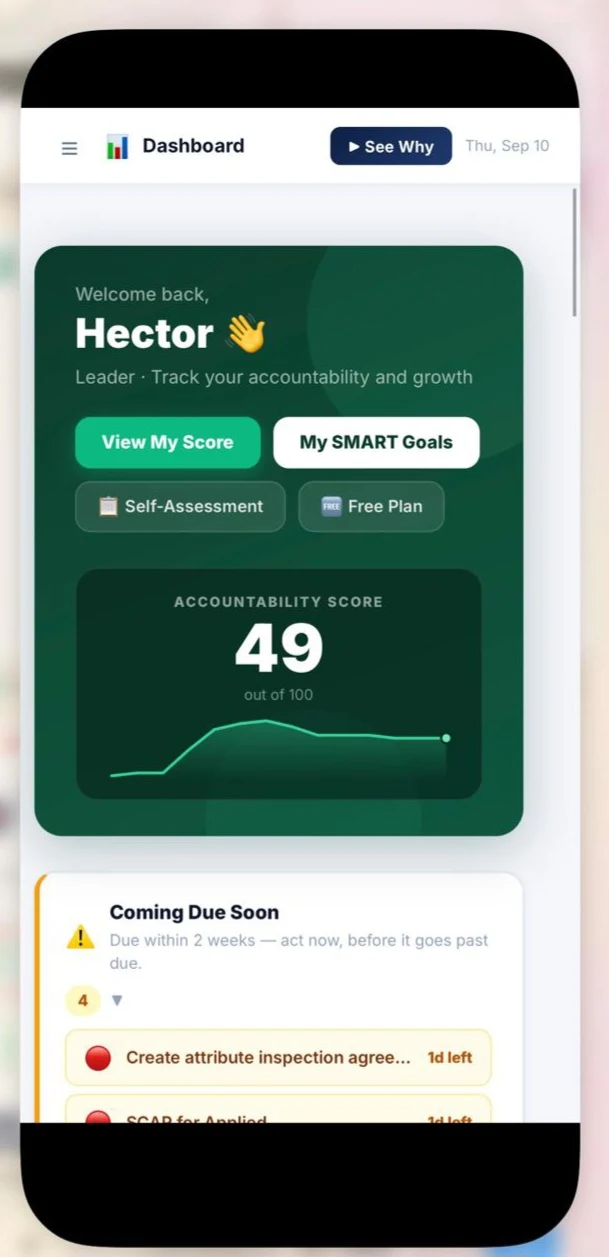
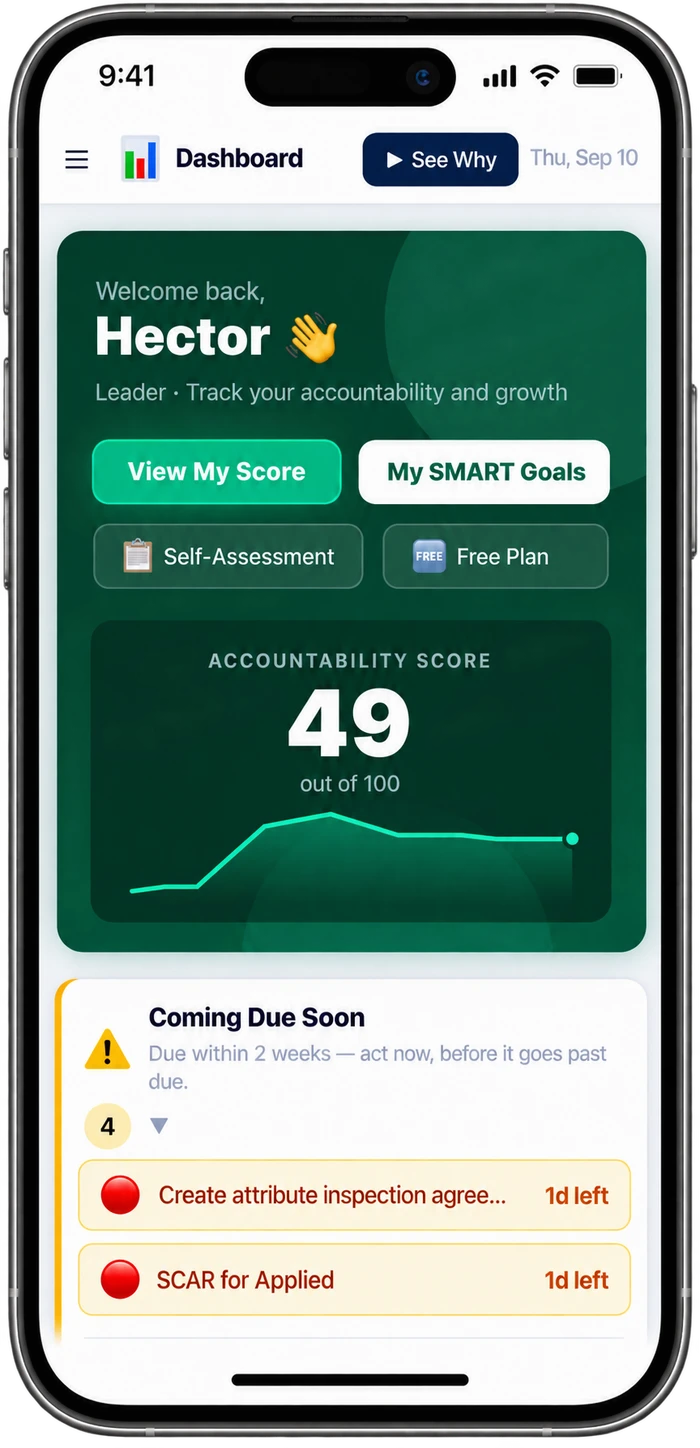
Upgrade to full realistic phone-frame screenshots
The dashboard and Vision Builder screenshots are replaced with
properly phone-framed captures (complete iPhone silhouette, status
bar, side buttons) instead of the earlier cropped mockup exports.
These have a clean transparent background, so the zoom/crop hack
from the last commit is removed in favor of object-contain.

Also adds Visual Management as a real module in the Technical
Modules category (it was genuinely missing from that list), and
features it with its own phone screenshot alongside Vision Builder
on the Modules section. The Real-Time Monitoring section now uses
this same higher-quality Visual Management capture too.

Claude-Session: https://claude.ai/code/session_01V8wHvC8xRcjo75HUNEoYi8

diff --git a/components/sections/ModulesGrid.js b/components/sections/ModulesGrid.js
@@ -5,7 +5,10 @@ import Icon from "@/components/ui/Icon";
 import Reveal from "@/components/ui/Reveal";
 
 export default function ModulesGrid({ appPage, moduleCategories }) {
-  const featuredModule = moduleCategories[0].modules[0];
+  const visionBuilder = moduleCategories[0].modules[0];
+  const visualManagement = moduleCategories
+    .flatMap((category) => category.modules)
+    .find((mod) => mod.name === "Visual Management");
 
   return (
     <section className="bg-pale-green py-20 sm:py-28">
@@ -18,24 +21,47 @@ export default function ModulesGrid({ appPage, moduleCategories }) {
 
         <div className="mt-14 grid grid-cols-1 items-center gap-12 lg:grid-cols-2">
           <Reveal className="mx-auto w-full max-w-[280px] lg:order-2">
-            <div className="relative aspect-[800/1702] overflow-hidden rounded-[2rem] shadow-card-hover">
+            <div className="relative aspect-[700/1418]">
               <Image
                 src={appPage.modulesSection.screenshotSrc}
                 alt={appPage.modulesSection.screenshotAlt}
                 fill
-                className="scale-125 object-cover"
+                className="object-contain"
                 sizes="280px"
               />
             </div>
           </Reveal>
           <Reveal delay={0.1} className="lg:order-1">
             <div className="mb-5 flex h-12 w-12 items-center justify-center rounded-xl bg-white text-mid-green">
-              <Icon name={featuredModule.icon} size={24} />
+              <Icon name={visionBuilder.icon} size={24} />
             </div>
-            <h3 className="text-2xl font-bold text-dark-green">{featuredModule.name}</h3>
-            <p className="mt-3 max-w-sm leading-relaxed text-navy/80">{featuredModule.description}</p>
+            <h3 className="text-2xl font-bold text-dark-green">{visionBuilder.name}</h3>
+            <p className="mt-3 max-w-sm leading-relaxed text-navy/80">{visionBuilder.description}</p>
           </Reveal>
         </div>
+
+        {visualManagement && (
+          <div className="mt-16 grid grid-cols-1 items-center gap-12 lg:grid-cols-2">
+            <Reveal className="mx-auto w-full max-w-[280px]">
+              <div className="relative aspect-[700/1418]">
+                <Image
+                  src={appPage.modulesSection.screenshot2Src}
+                  alt={appPage.modulesSection.screenshot2Alt}
+                  fill
+                  className="object-contain"
+                  sizes="280px"
+                />
+              </div>
+            </Reveal>
+            <Reveal delay={0.1}>
+              <div className="mb-5 flex h-12 w-12 items-center justify-center rounded-xl bg-white text-mid-green">
+                <Icon name={visualManagement.icon} size={24} />
+              </div>
+              <h3 className="text-2xl font-bold text-dark-green">{visualManagement.name}</h3>
+              <p className="mt-3 max-w-sm leading-relaxed text-navy/80">{visualManagement.description}</p>
+            </Reveal>
+          </div>
+        )}
 
         <div className="mt-16 space-y-16">
           {moduleCategories.map((category) => (

diff --git a/lib/content.es.js b/lib/content.es.js
@@ -293,6 +293,8 @@ export const appPage = {
     headline: "18 Módulos en 3 Áreas de Habilidades",
     screenshotSrc: "/images/app-screenshot-vision-builder.webp",
     screenshotAlt: "El módulo Vision Builder en la Accountability App, guiando a un líder a través de un ejercicio de visión de 5 preguntas",
+    screenshot2Src: "/images/app-screenshot-visual-management.webp",
+    screenshot2Alt: "El módulo de Visual Management en la Accountability App, mostrando un tablero de escalación en vivo con semáforo rojo, amarillo y verde para dar seguimiento a tareas abiertas hasta su cierre",
   },
   monitoringEyebrow: "Monitoreo en Tiempo Real",
   monitoring: {
@@ -303,7 +305,7 @@ export const appPage = {
     ],
     teamProgressLabel: "Progreso del Equipo",
     ariaLabel: "Ilustración del panel de progreso del equipo en tiempo real de la Accountability App en un teléfono",
-    screenshotSrc: "/images/app-screenshot-board-phone.webp",
+    screenshotSrc: "/images/app-screenshot-visual-management.webp",
     screenshotAlt: "El tablero de Visual Management de la Accountability App, mostrando conteos de estado verde, amarillo y rojo y un rastreador de escalación de tareas en vivo",
   },
   skillPillarsSection: {
@@ -366,6 +368,7 @@ export const moduleCategories = [
       { name: "Herramientas OPEX (SQDIP)", icon: "Gauge", description: "Seguimiento de Seguridad, Calidad, Entrega, Inventario y Productividad." },
       { name: "Resolución de Problemas", icon: "Search", description: "5 Porqués, Diagrama de Ishikawa y A3 para la resolución estructurada de problemas." },
       { name: "Línea de Balance", icon: "BarChart3", description: "Visibilidad de la planificación y programación de producción." },
+      { name: "Visual Management", icon: "LayoutGrid", description: "Un tablero de escalación en vivo con semáforo rojo, amarillo y verde que da seguimiento a cada tarea abierta hasta que realmente se cierra." },
     ],
   },
   {

diff --git a/lib/content.js b/lib/content.js
@@ -308,6 +308,8 @@ export const appPage = {
     headline: "18 Modules Across 3 Skill Areas",
     screenshotSrc: "/images/app-screenshot-vision-builder.webp",
     screenshotAlt: "The Vision Builder module in the Accountability App, walking a leader through a 5-question guided vision exercise",
+    screenshot2Src: "/images/app-screenshot-visual-management.webp",
+    screenshot2Alt: "The Visual Management module in the Accountability App, showing a live red, yellow, and green escalation board for tracking open tasks to closure",
   },
   monitoringEyebrow: "Real-Time Monitoring",
   monitoring: {
@@ -318,7 +320,7 @@ export const appPage = {
     ],
     teamProgressLabel: "Team Progress",
     ariaLabel: "Illustration of the Accountability App's real-time team progress dashboard on a phone",
-    screenshotSrc: "/images/app-screenshot-board-phone.webp",
+    screenshotSrc: "/images/app-screenshot-visual-management.webp",
     screenshotAlt: "The Accountability App's Visual Management board, showing green, yellow, and red status counts and a live task escalation tracker",
   },
   skillPillarsSection: {
@@ -381,6 +383,7 @@ export const moduleCategories = [
       { name: "OPEX Tools (SQDIP)", icon: "Gauge", description: "Safety, Quality, Delivery, Inventory, Productivity tracking." },
       { name: "Problem Solving", icon: "Search", description: "5 Whys, Fishbone, and A3 structured problem solving." },
       { name: "Line of Balance", icon: "BarChart3", description: "Production planning and scheduling visibility." },
+      { name: "Visual Management", icon: "LayoutGrid", description: "A live red, yellow, and green escalation board that tracks every open item until it's actually closed." },
     ],
   },
   {

diff --git a/components/sections/HowItWorks.js b/components/sections/HowItWorks.js
@@ -22,12 +22,12 @@ export default function HowItWorks({ appPage }) {
             ))}
           </div>
           <Reveal delay={0.15} className="mx-auto w-full max-w-[280px]">
-            <div className="relative aspect-[609/1257] overflow-hidden rounded-[2rem] shadow-card-hover">
+            <div className="relative aspect-[700/1448]">
               <Image
                 src={appPage.howItWorksSection.screenshotSrc}
                 alt={appPage.howItWorksSection.screenshotAlt}
                 fill
-                className="scale-125 object-cover"
+                className="object-contain"
                 sizes="280px"
               />
             </div>

diff --git a/components/sections/RealTimeMonitoring.js b/components/sections/RealTimeMonitoring.js
@@ -19,12 +19,12 @@ export default function RealTimeMonitoring({ appPage }) {
           </div>
         </Reveal>
         <Reveal delay={0.15} className="mx-auto w-full max-w-[280px]">
-          <div className="relative aspect-[800/1736] overflow-hidden rounded-[2rem] shadow-card-hover">
+          <div className="relative aspect-[700/1418]">
             <Image
               src={appPage.monitoring.screenshotSrc}
               alt={appPage.monitoring.screenshotAlt}
               fill
-              className="scale-125 object-cover"
+              className="object-contain"
               sizes="280px"
             />
           </div>
